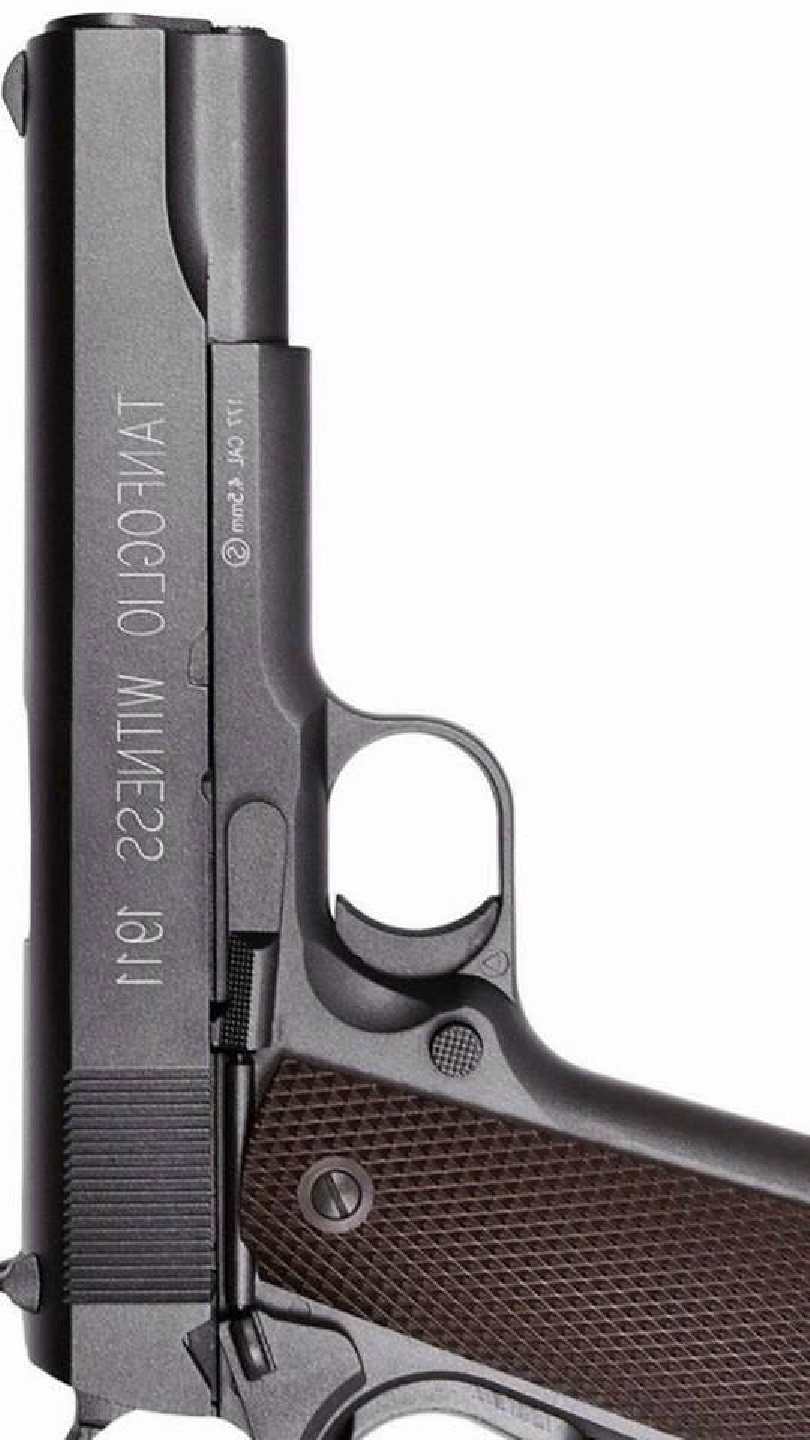
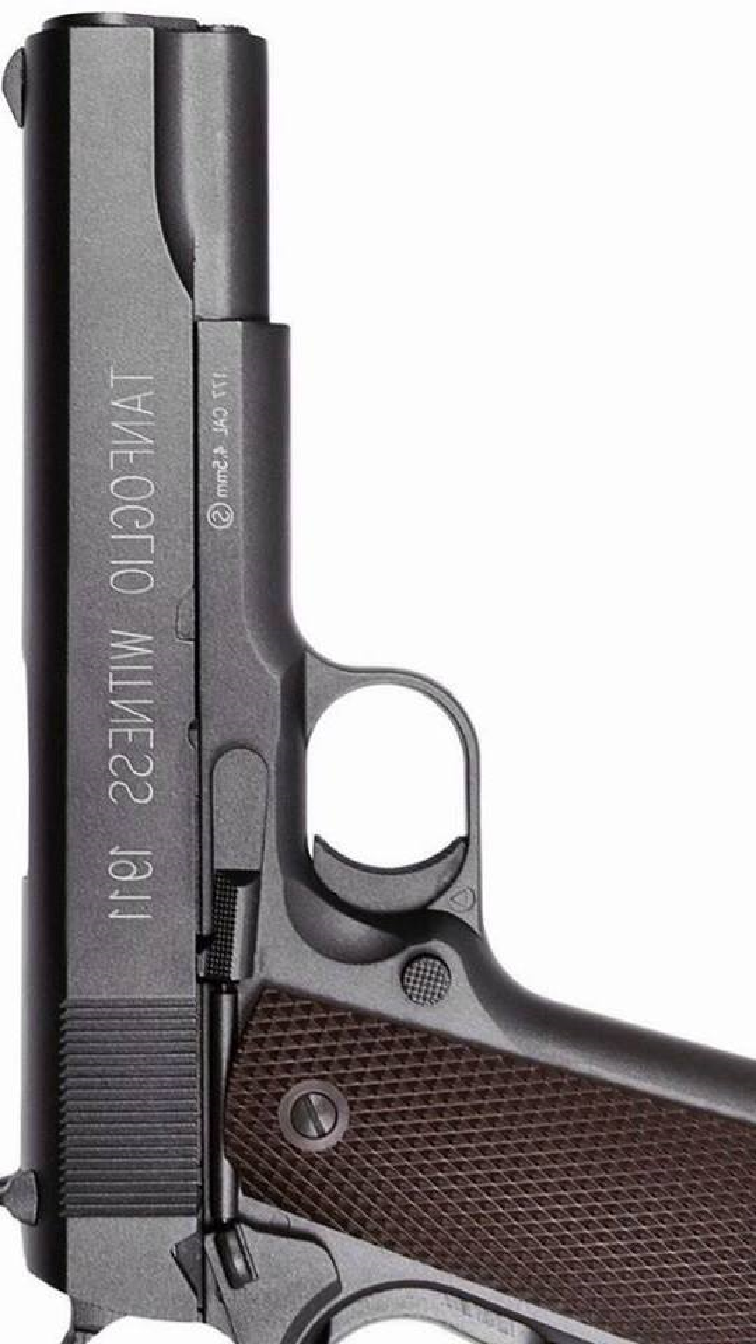
made gun 140% pos: -140 -700

Changed region(s): [[0.5476, 0.7188, 0.578, 0.75]]

diff --git a/index.html b/index.html
@@ -5,7 +5,7 @@
   <meta name="viewport" content="width=device-width">
   <title>JS Bin</title>
 </head>
-<body style="background-image: url(gun225.png); background-repeat: no-repeat; background-position: -170px -730px;">
+<body style="background-image: url(gun225.png); background-repeat: no-repeat; background-position: -140px -700px;">
 <!--background-size: 225%-->
 <!--background-position: -135px -635px;-->
 </div>
